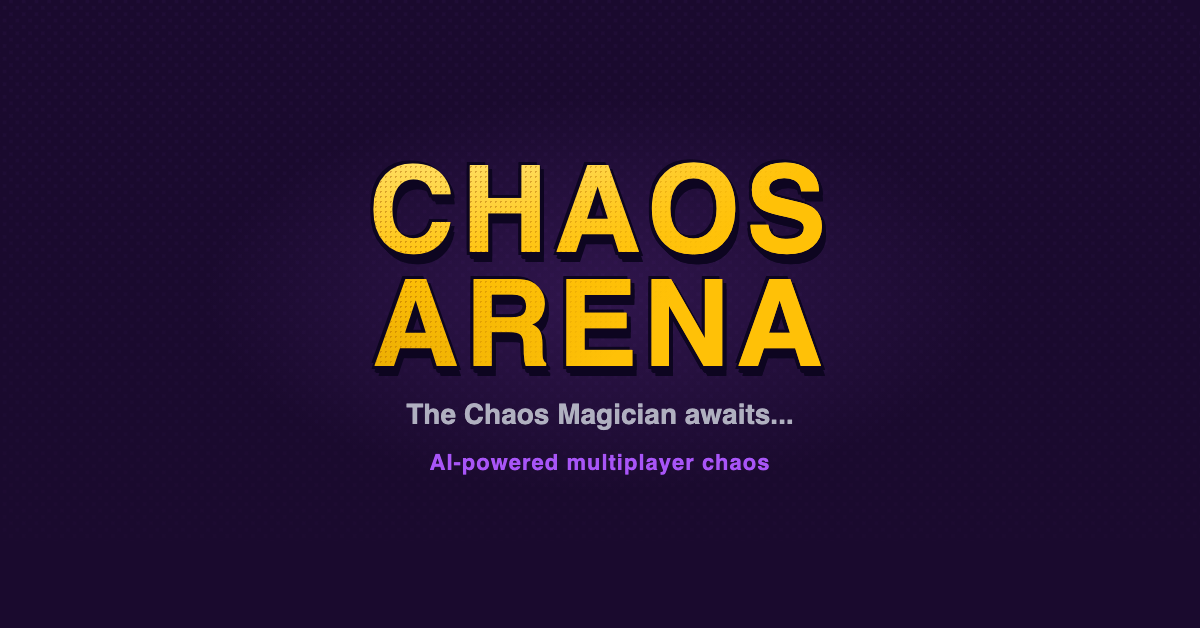
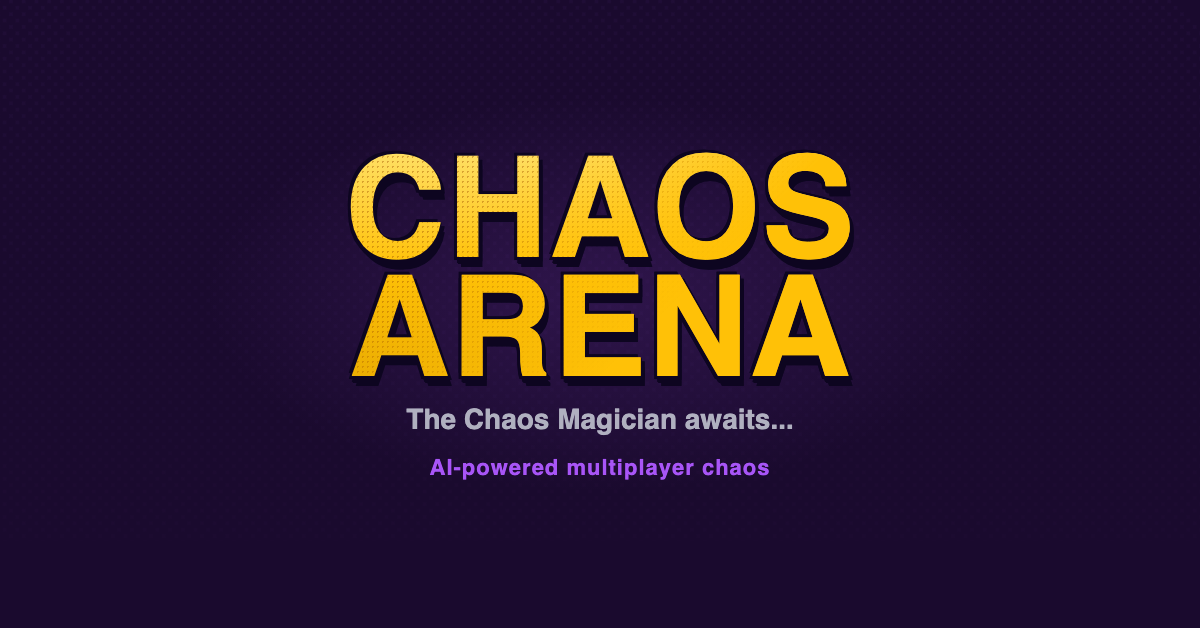
fix: tighten OG image title spacing and increase size
Bigger title (140px), less letter-spacing (1px), tighter line-height
(0.85), bolder subtitle (800 weight).

Changed region(s): [[0.2775, 0.242, 0.7092, 0.6959], [0.3392, 0.7261, 0.6475, 0.7564]]

diff --git a/public/og-template.html b/public/og-template.html
@@ -83,10 +83,10 @@
 
     .title {
       font-family: var(--font-head);
-      font-size: 120px;
+      font-size: 140px;
       font-weight: 700;
-      letter-spacing: 6px;
-      line-height: 0.95;
+      letter-spacing: 1px;
+      line-height: 0.85;
       text-transform: uppercase;
       /* Halftone dot fill */
       background:
@@ -102,7 +102,7 @@
     .subtitle {
       font-family: var(--font-body);
       font-size: 28px;
-      font-weight: 600;
+      font-weight: 800;
       color: var(--text-dim);
       margin-top: 4px;
     }
